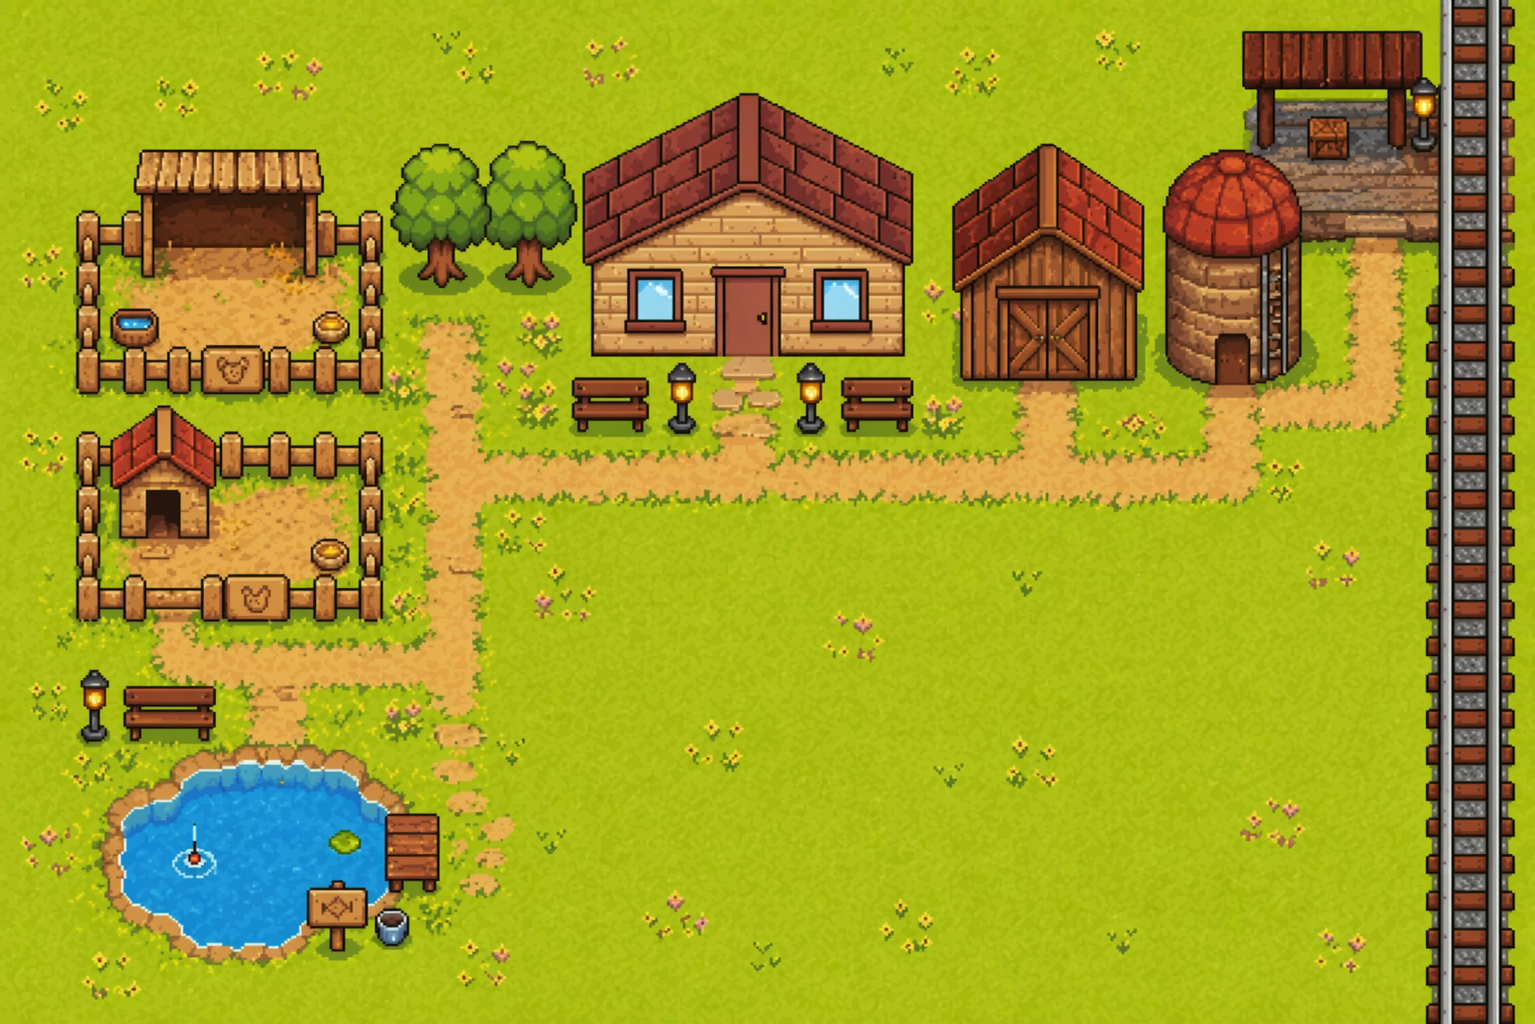
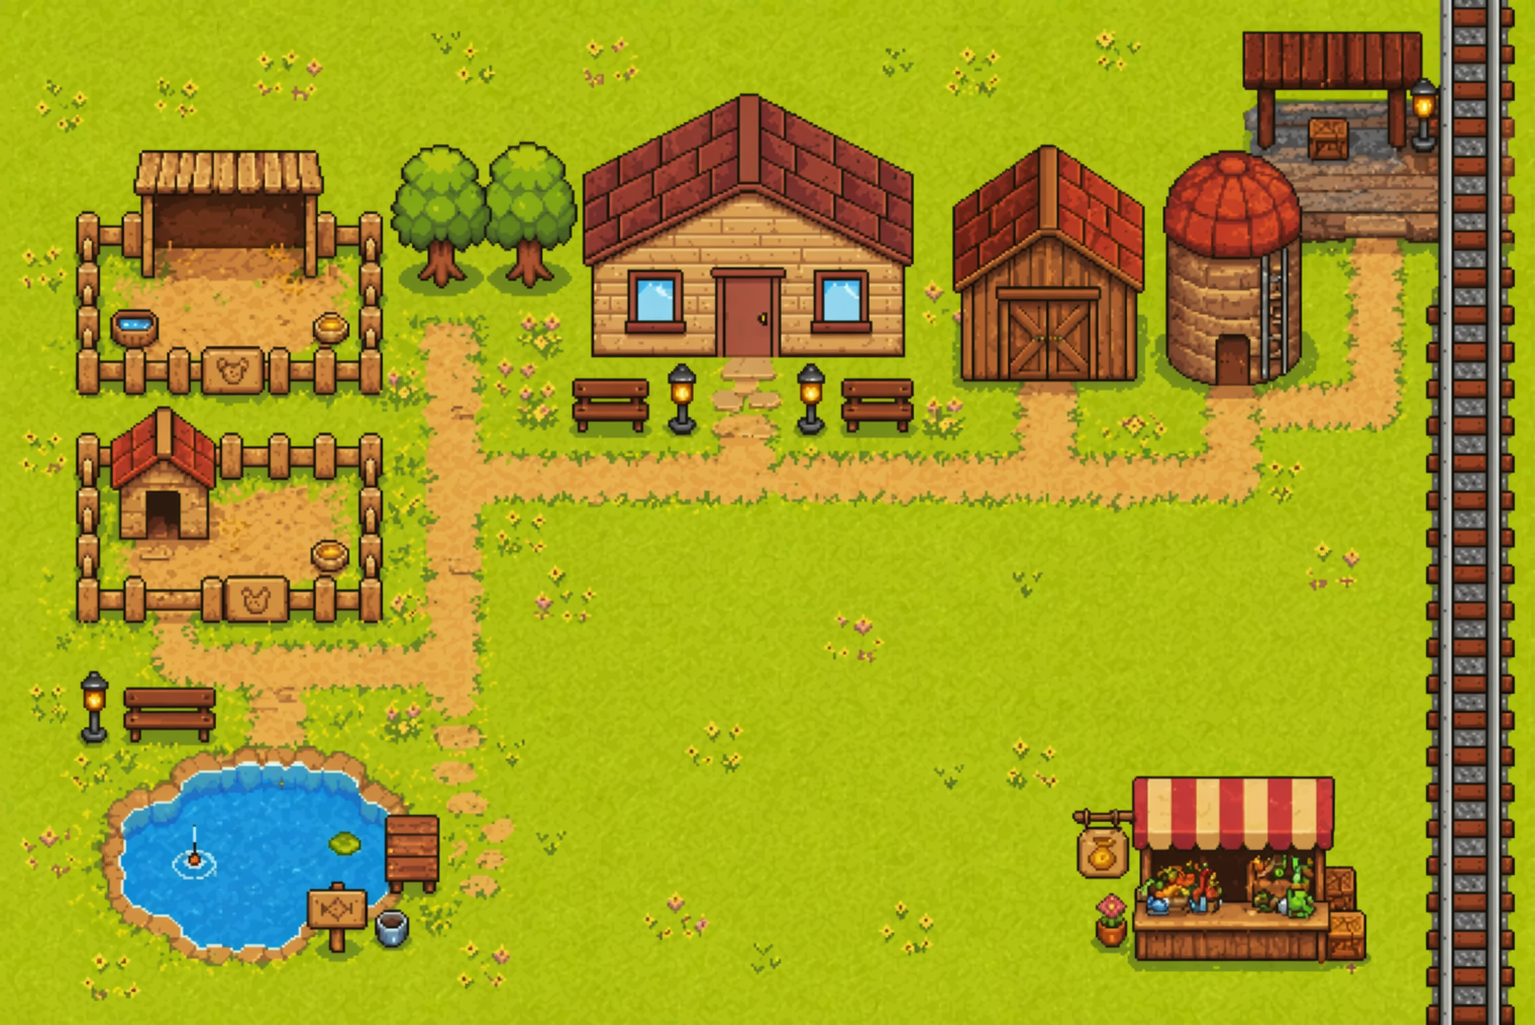
update lệnh tiền

diff --git a/bot/config/emoji.py b/bot/config/emoji.py
@@ -85,3 +85,40 @@ WORDLE_LETTER_EMOJI = {
         "Z": "<:Z_green:1487329555214766120>",
     },
 }
+
+FARM_GAME_EMOJI = {
+    "chill_coin": "<:cs_coin:1495116560191324383>",
+
+    "item_wheat_seed": "<:Wheat_seed:1495568410220953600>",
+    "item_wheat": "<:Wheat:1495568381494038559>",
+
+    "item_potato_seed" : "<:Potato_seed:1495567240878231694>",
+    "item_potato" : "<:Potato:1495567150537113691>",
+
+    "item_parsnip_seed" : "<:Parsnip_seed:1495567095360917574>",
+    "item_parsnip" : "<:Parsnip:1495567054067990578>",
+
+    "item_green_bean_seed" : "<:Green_Bean_seed:1495566575108096160>",
+    "item_green_bean" : "<:Green_Bean:1495566506279571506>",
+
+    "item_hops_seed" : "<:Hops_seed:1495566686563078235>",
+    "item_hops" : "<:Hops:1495566648588107826>",
+
+    "item_cauliflower_seed" : "<:Cauliflower_seed:1495565937112383559>",
+    "item_cauliflower" : "<:Cauliflower:1495565887837704304>",
+
+    "item_garlic_seed" : "<:Garlic_seed:1495566339329359972>",
+    "item_garlic" : "<:Garlic:1495566310594314333>",
+
+    "item_kale_seed" : "<:Kale_seed:1495566870206746765>",
+    "item_kale" : "<:Kale:1495566799964471446>",
+
+    "item_rhubarb_seed" : "<:Rhubarb_seed:1495567770534940742>",
+    "item_rhubarb" : "<:Rhubarb:1495567698199969993>",
+
+    "item_tomato_seed" : "<:Tomato_seed:1495568324858220574>",
+    "item_tomato" : "<:Tomato:1495568292297965670>",
+
+    "item_melon_seed" : "<:Melon_seed:1495566990788792384>",
+    "item_melon" : "<:Melon:1495566935604203630>",
+}

diff --git a/bot/commands/cash.py b/bot/commands/cash.py
@@ -1,0 +1,34 @@
+from discord.ext import commands
+
+from bot.config.database import getDbSession
+from bot.config.emoji import FARM_GAME_EMOJI
+from bot.repository.memberRepository import MemberRepository
+
+
+class CashCommand(commands.Cog):
+    def __init__(self, bot):
+        self.bot = bot
+
+    @commands.command(name="cash")
+    async def cash(self, ctx):
+        with getDbSession() as session:
+            memberRepository = MemberRepository(session)
+            member = memberRepository.findByUserId(ctx.author.id)
+
+            if member is None:
+                await ctx.reply("Không tìm thấy dữ liệu member của bạn.")
+                return
+
+            chillCoinEmoji = FARM_GAME_EMOJI["chill_coin"]
+            chillCoin = self.formatNumber(member.chill_coin)
+
+            await ctx.reply(
+                f"{ctx.author.mention} ơi, bạn hiện có {chillCoinEmoji} **{chillCoin}** chill coin."
+            )
+
+    def formatNumber(self, number: int):
+        return f"{number:,}"
+
+
+async def setup(bot):
+    await bot.add_cog(CashCommand(bot))

diff --git a/bot/main.py b/bot/main.py
@@ -121,6 +121,7 @@ async def main():
         "bot.commands.memberBirthday",
         "bot.commands.myFarm",
         "bot.commands.shopFarm",
+        "bot.commands.cash",
         "bot.events.memberJoinEvent",
         "bot.events.memberLeaveEvent",
         "bot.events.messageCreateEvent",